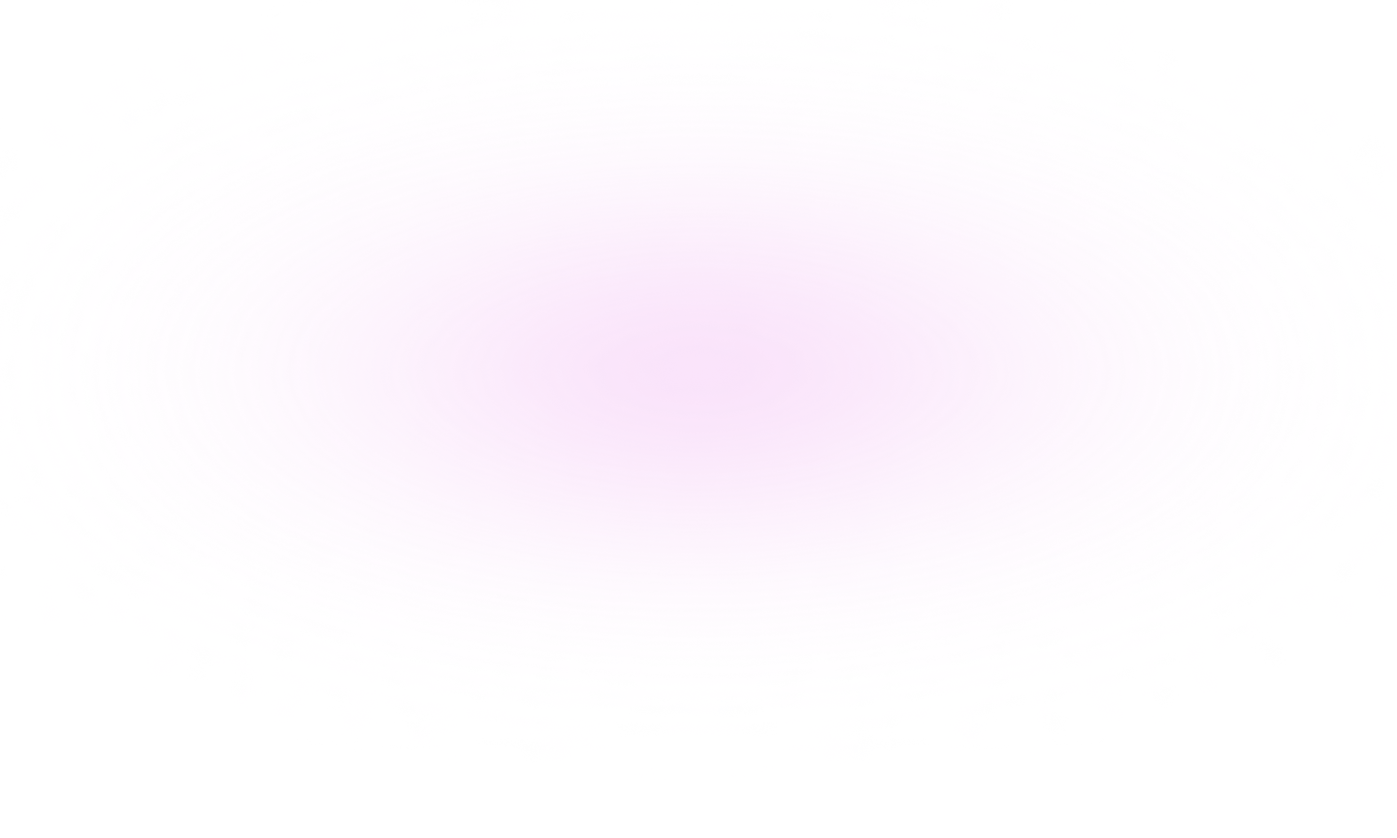
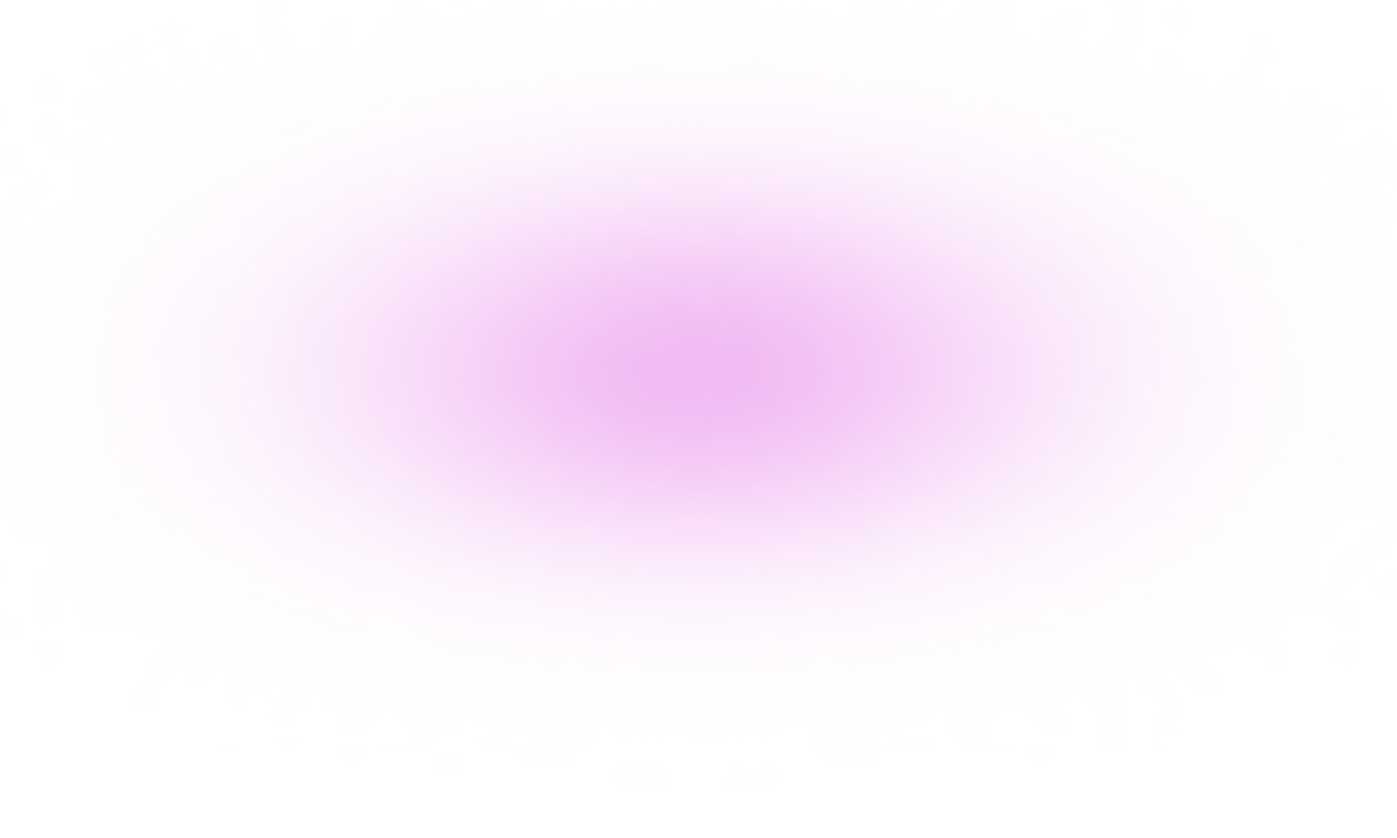
_features

Changed region(s): [[0.3125, 0.2812, 0.6875, 0.625]]

diff --git a/dist/index.html b/dist/index.html
@@ -1,1 +1,1 @@
-<!DOCTYPE html><html lang="en"><head><meta charset="UTF-8"><meta http-equiv="X-UA-Compatible" content="IE=edge"><meta name="viewport" content="width=device-width,initial-scale=1"><!-- Metatags --><title>Zeus UI</title><meta name="title" content="Zeus UI - Create and sell your NFTs today"><meta name="description" content="Velit, odio bibendum eu, viverra sit laoreet posuere. Ut scelerisque posuere massa amet. Ornare lacinia vitae at vestibulum morbi. Volutpat libero curabitur feugiat risus dui pulvinar. Elementum."><meta property="og:type" content="website"><meta property="og:url" content="https://metatags.io/"><meta property="og:title" content="Zeus UI - Create and sell your NFTs today"><meta property="og:description" content="Velit, odio bibendum eu, viverra sit laoreet posuere. Ut scelerisque posuere massa amet. Ornare lacinia vitae at vestibulum morbi. Volutpat libero curabitur feugiat risus dui pulvinar. Elementum."><meta property="og:image" content="https://metatags.io/assets/meta-tags-16a33a6a8531e519cc0936fbba0ad904e52d35f34a46c97a2c9f6f7dd7d336f2.png"><meta property="twitter:card" content="summary_large_image"><meta property="twitter:url" content="https://metatags.io/"><meta property="twitter:title" content="Zeus UI - Create and sell your NFTs today"><meta property="twitter:description" content="Velit, odio bibendum eu, viverra sit laoreet posuere. Ut scelerisque posuere massa amet. Ornare lacinia vitae at vestibulum morbi. Volutpat libero curabitur feugiat risus dui pulvinar. Elementum."><meta property="twitter:image" content="https://metatags.io/assets/meta-tags-16a33a6a8531e519cc0936fbba0ad904e52d35f34a46c97a2c9f6f7dd7d336f2.png"><!-- Favicon --><link rel="apple-touch-icon" sizes="57x57" href="icons/favicon/apple-icon-57x57.png"><link rel="apple-touch-icon" sizes="60x60" href="icons/favicon/apple-icon-60x60.png"><link rel="apple-touch-icon" sizes="72x72" href="icons/favicon/apple-icon-72x72.png"><link rel="apple-touch-icon" sizes="76x76" href="icons/favicon/apple-icon-76x76.png"><link rel="apple-touch-icon" sizes="114x114" href="icons/favicon/apple-icon-114x114.png"><link rel="apple-touch-icon" sizes="120x120" href="icons/favicon/apple-icon-120x120.png"><link rel="apple-touch-icon" sizes="144x144" href="icons/favicon/apple-icon-144x144.png"><link rel="apple-touch-icon" sizes="152x152" href="icons/favicon/apple-icon-152x152.png"><link rel="apple-touch-icon" sizes="180x180" href="icons/favicon/apple-icon-180x180.png"><link rel="icon" type="image/png" sizes="192x192" href="icons/favicon/android-icon-192x192.png"><link rel="icon" type="image/png" sizes="32x32" href="icons/favicon/favicon-32x32.png"><link rel="icon" type="image/png" sizes="96x96" href="icons/favicon/favicon-96x96.png"><link rel="icon" type="image/png" sizes="16x16" href="icons/favicon/favicon-16x16.png"><meta name="msapplication-TileColor" content="#ffffff"><meta name="msapplication-TileImage" content="icons/favicon/ms-icon-144x144.png"><meta name="theme-color" content="#ffffff"><link rel="stylesheet" href="css/style.min.css"></head><body><header class="header"><div class="container"><div class="menu"><nav><ul class="menu__left"><li class="menu__left-item"><a href="#">Home</a></li><li class="menu__left-item"><a href="#">University</a></li><li class="menu__left-item"><a href="#">Courses</a></li></ul><div class="menu__logo"><a href="#"><img src="icons/Logo.png" alt="Logo"></a></div><ul class="menu__right"><li class="menu__right-item"><a href="#">Use cases</a></li><li class="menu__right-item"><a href="#">Plans</a></li><li class="menu__right-item"><a href="#">Resources</a></li></ul></nav></div></div></header><div class="promo"><div class="container"><div class="promo__text"><div class="promo__text-title">Create & sell<br>your NFTs today</div><div class="promo__text-subtitle subtitle">Velit, odio bibendum eu, viverra sit laoreet posuere. Ut scelerisque posuere massa amet. Ornare lacinia vitae at vestibulum morbi. Volutpat libero curabitur feugiat risus dui pulvinar. Elementum.</div><div class="promo__text-button"><button class="button">Let’s sell</button></div></div></div></div><div class="logo"><div class="container"><div class="logo__wrapper"><div class="logo_wrapper-item"><a href="#"><img src="icons/integrations/integration_1.svg" alt="integration_1"></a></div><div class="logo_wrapper-item"><a href="#"><img src="icons/integrations/integration_2.svg" alt="integration_2"></a></div><div class="logo_wrapper-item"><a href="#"><img src="icons/integrations/integration_3.svg" alt="integration_3"></a></div><div class="logo_wrapper-item"><a href="#"><img src="icons/integrations/integration_4.svg" alt="integration_4"></a></div><div class="logo_wrapper-item"><a href="#"><img src="icons/integrations/integration_5.svg" alt="integration_5"></a></div><div class="logo_wrapper-item"><a href="#"><img src="icons/integrations/integration_6.svg" alt="integration_6"></a></div></div></div></div></body></html>
+<!DOCTYPE html><html lang="en"><head><meta charset="UTF-8"><meta http-equiv="X-UA-Compatible" content="IE=edge"><meta name="viewport" content="width=device-width,initial-scale=1"><!-- Metatags --><title>Zeus UI</title><meta name="title" content="Zeus UI - Create and sell your NFTs today"><meta name="description" content="Velit, odio bibendum eu, viverra sit laoreet posuere. Ut scelerisque posuere massa amet. Ornare lacinia vitae at vestibulum morbi. Volutpat libero curabitur feugiat risus dui pulvinar. Elementum."><meta property="og:type" content="website"><meta property="og:url" content="https://metatags.io/"><meta property="og:title" content="Zeus UI - Create and sell your NFTs today"><meta property="og:description" content="Velit, odio bibendum eu, viverra sit laoreet posuere. Ut scelerisque posuere massa amet. Ornare lacinia vitae at vestibulum morbi. Volutpat libero curabitur feugiat risus dui pulvinar. Elementum."><meta property="og:image" content="https://metatags.io/assets/meta-tags-16a33a6a8531e519cc0936fbba0ad904e52d35f34a46c97a2c9f6f7dd7d336f2.png"><meta property="twitter:card" content="summary_large_image"><meta property="twitter:url" content="https://metatags.io/"><meta property="twitter:title" content="Zeus UI - Create and sell your NFTs today"><meta property="twitter:description" content="Velit, odio bibendum eu, viverra sit laoreet posuere. Ut scelerisque posuere massa amet. Ornare lacinia vitae at vestibulum morbi. Volutpat libero curabitur feugiat risus dui pulvinar. Elementum."><meta property="twitter:image" content="https://metatags.io/assets/meta-tags-16a33a6a8531e519cc0936fbba0ad904e52d35f34a46c97a2c9f6f7dd7d336f2.png"><!-- Favicon --><link rel="apple-touch-icon" sizes="57x57" href="icons/favicon/apple-icon-57x57.png"><link rel="apple-touch-icon" sizes="60x60" href="icons/favicon/apple-icon-60x60.png"><link rel="apple-touch-icon" sizes="72x72" href="icons/favicon/apple-icon-72x72.png"><link rel="apple-touch-icon" sizes="76x76" href="icons/favicon/apple-icon-76x76.png"><link rel="apple-touch-icon" sizes="114x114" href="icons/favicon/apple-icon-114x114.png"><link rel="apple-touch-icon" sizes="120x120" href="icons/favicon/apple-icon-120x120.png"><link rel="apple-touch-icon" sizes="144x144" href="icons/favicon/apple-icon-144x144.png"><link rel="apple-touch-icon" sizes="152x152" href="icons/favicon/apple-icon-152x152.png"><link rel="apple-touch-icon" sizes="180x180" href="icons/favicon/apple-icon-180x180.png"><link rel="icon" type="image/png" sizes="192x192" href="icons/favicon/android-icon-192x192.png"><link rel="icon" type="image/png" sizes="32x32" href="icons/favicon/favicon-32x32.png"><link rel="icon" type="image/png" sizes="96x96" href="icons/favicon/favicon-96x96.png"><link rel="icon" type="image/png" sizes="16x16" href="icons/favicon/favicon-16x16.png"><meta name="msapplication-TileColor" content="#ffffff"><meta name="msapplication-TileImage" content="icons/favicon/ms-icon-144x144.png"><meta name="theme-color" content="#ffffff"><link rel="stylesheet" href="css/style.min.css"></head><body><header class="header"><div class="container"><div class="menu"><nav><ul class="menu__left"><li class="menu__left-item"><a href="#">Home</a></li><li class="menu__left-item"><a href="#">University</a></li><li class="menu__left-item"><a href="#">Courses</a></li></ul><div class="menu__logo"><a href="#"><img src="icons/Logo.png" alt="Logo"></a></div><ul class="menu__right"><li class="menu__right-item"><a href="#">Use cases</a></li><li class="menu__right-item"><a href="#">Plans</a></li><li class="menu__right-item"><a href="#">Resources</a></li></ul></nav></div></div></header><div class="promo"><div class="promo__bg"></div><div class="container"><div class="promo__text"><div class="promo__text-title">Create & sell<br>your NFTs today</div><div class="promo__text-subtitle subtitle">Velit, odio bibendum eu, viverra sit laoreet posuere. Ut scelerisque posuere massa amet. Ornare lacinia vitae at vestibulum morbi. Volutpat libero curabitur feugiat risus dui pulvinar. Elementum.</div><div class="promo__text-button"><button class="button">Let’s sell</button></div></div></div></div><div class="logo"><div class="container"><div class="logo__wrapper"><div class="logo_wrapper-item"><a href="#"><img src="icons/integrations/integration_1.svg" alt="integration_1"></a></div><div class="logo_wrapper-item"><a href="#"><img src="icons/integrations/integration_2.svg" alt="integration_2"></a></div><div class="logo_wrapper-item"><a href="#"><img src="icons/integrations/integration_3.svg" alt="integration_3"></a></div><div class="logo_wrapper-item"><a href="#"><img src="icons/integrations/integration_4.svg" alt="integration_4"></a></div><div class="logo_wrapper-item"><a href="#"><img src="icons/integrations/integration_5.svg" alt="integration_5"></a></div><div class="logo_wrapper-item"><a href="#"><img src="icons/integrations/integration_6.svg" alt="integration_6"></a></div></div></div></div><div class="features"><div class="container"><div class="features__text"><div class="features__text-title title">Hottest Collections</div><div class="features__text-subtitle subtitle">Risus commodo id odio turpis pharetra elementum. Pulvinar porta porta feugiat scelerisque in elit. Morbi rhoncus, tellus, eros consequat magna semper orci a tincidunt.</div></div><div class="features__wrapper"><div class="features__item"><img src="img/features/features_1.png" alt="Features_1" class="features__item-img"><div class="features__item-title title-fz32">Moonbirds</div><div class="features__item-subtitle subtitle-fz14">Faucibus odio elementum nulla venenatis, libero. Ullamcorper duis fringilla pulvinar nibh diam sit.</div></div><div class="features__item"><img src="img/features/features_2.png" alt="Features_2" class="features__item-img"><div class="features__item-title title-fz32">Clone X - X Takashi Murakami</div><div class="features__item-subtitle subtitle-fz14">Magna in condimentum praesent pretium vitae mattis facilisis nunc. Lectus in ac ac.</div></div><div class="features__item"><img src="img/features/features_3.png" alt="Mutant Ape Yacht Club" class="features__item-img"><div class="features__item-title title-fz32">Mutant Ape Yacht Club</div><div class="features__item-subtitle subtitle-fz14">Sit aenean porttitor sit lectus. Adipiscing egestas etiam eget cursus nulla risus euismod. Netus.</div></div><div class="features__item"><img src="img/features/features_4.png" alt="'MOAR' by Joan Cornella" class="features__item-img"><div class="features__item-title title-fz32">"MOAR" by Joan Cornella</div><div class="features__item-subtitle subtitle-fz14">Faucibus odio elementum nulla venenatis, libero. Ullamcorper duis fringilla pulvinar nibh diam sit.</div></div><div class="features__item"><img src="img/features/features_5.png" alt="Doodles" class="features__item-img"><div class="features__item-title title-fz32">Doodles</div><div class="features__item-subtitle subtitle-fz14">Magna in condimentum praesent pretium vitae mattis facilisis nunc. Lectus in ac ac.</div></div><div class="features__item"><img src="img/features/features_6.png" alt="KIWAMI Genesis" class="features__item-img"><div class="features__item-title title-fz32">KIWAMI Genesis</div><div class="features__item-subtitle subtitle-fz14">Sit aenean porttitor sit lectus. Adipiscing egestas etiam eget cursus nulla risus euismod. Netus.</div></div><div class="features__item"><img src="img/features/features_7.png" alt="Arcade Land" class="features__item-img"><div class="features__item-title title-fz32">Arcade Land</div><div class="features__item-subtitle subtitle-fz14">Faucibus odio elementum nulla venenatis, libero. Ullamcorper duis fringilla pulvinar nibh diam sit.</div></div><div class="features__item"><img src="img/features/features_8.png" alt="Goons of Balatroon" class="features__item-img"><div class="features__item-title title-fz32">Goons of Balatroon</div><div class="features__item-subtitle subtitle-fz14">Magna in condimentum praesent pretium vitae mattis facilisis nunc. Lectus in ac ac.</div></div><div class="features__item"><img src="img/features/features_9.png" alt="Meta Toy DragonZ" class="features__item-img"><div class="features__item-title title-fz32">Meta Toy DragonZ</div><div class="features__item-subtitle subtitle-fz14">Sit aenean porttitor sit lectus. Adipiscing egestas etiam eget cursus nulla risus euismod. Netus.</div></div></div></div></div></body></html>

diff --git a/dist/css/style.min.css b/dist/css/style.min.css
@@ -4,4 +4,4 @@
  * Copyright 2011-2019 Twitter, Inc.
  * Licensed under MIT (https://github.com/twbs/bootstrap/blob/master/LICENSE)
  * Forked from Normalize.css, licensed MIT (https://github.com/necolas/normalize.css/blob/master/LICENSE.md)
- */@import url(https://fonts.googleapis.com/css2?family=Space+Grotesk:wght@300;400;500&family=Syne:wght@600;700&display=swap);*,::after,::before{box-sizing:border-box}html{font-family:sans-serif;line-height:1.15;-webkit-text-size-adjust:100%;-webkit-tap-highlight-color:rgba(0,0,0,0)}article,aside,figcaption,figure,footer,header,hgroup,main,nav,section{display:block}body{margin:0;font-family:-apple-system,BlinkMacSystemFont,"Segoe UI",Roboto,"Helvetica Neue",Arial,"Noto Sans",sans-serif,"Apple Color Emoji","Segoe UI Emoji","Segoe UI Symbol","Noto Color Emoji";font-size:1rem;font-weight:400;line-height:1.5;color:#212529;text-align:left;background-color:#fff}[tabindex="-1"]:focus{outline:0!important}hr{box-sizing:content-box;height:0;overflow:visible}h1,h2,h3,h4,h5,h6{margin-top:0;margin-bottom:.5rem}p{margin-top:0;margin-bottom:1rem}abbr[data-original-title],abbr[title]{text-decoration:underline;-webkit-text-decoration:underline dotted;text-decoration:underline dotted;cursor:help;border-bottom:0;-webkit-text-decoration-skip-ink:none;text-decoration-skip-ink:none}address{margin-bottom:1rem;font-style:normal;line-height:inherit}dl,ol,ul{margin-top:0;margin-bottom:1rem}ol ol,ol ul,ul ol,ul ul{margin-bottom:0}dt{font-weight:700}dd{margin-bottom:.5rem;margin-left:0}blockquote{margin:0 0 1rem}b,strong{font-weight:bolder}small{font-size:80%}sub,sup{position:relative;font-size:75%;line-height:0;vertical-align:baseline}sub{bottom:-.25em}sup{top:-.5em}a{color:#007bff;text-decoration:none;background-color:rgba(0,0,0,0)}a:hover{color:#0056b3;text-decoration:underline}a:not([href]):not([tabindex]){color:inherit;text-decoration:none}a:not([href]):not([tabindex]):focus,a:not([href]):not([tabindex]):hover{color:inherit;text-decoration:none}a:not([href]):not([tabindex]):focus{outline:0}code,kbd,pre,samp{font-family:SFMono-Regular,Menlo,Monaco,Consolas,"Liberation Mono","Courier New",monospace;font-size:1em}pre{margin-top:0;margin-bottom:1rem;overflow:auto}figure{margin:0 0 1rem}img{vertical-align:middle;border-style:none}svg{overflow:hidden;vertical-align:middle}table{border-collapse:collapse}caption{padding-top:.75rem;padding-bottom:.75rem;color:#6c757d;text-align:left;caption-side:bottom}th{text-align:inherit}label{display:inline-block;margin-bottom:.5rem}button{border-radius:0}button:focus{outline:1px dotted;outline:5px auto -webkit-focus-ring-color}button,input,optgroup,select,textarea{margin:0;font-family:inherit;font-size:inherit;line-height:inherit}button,input{overflow:visible}button,select{text-transform:none}select{word-wrap:normal}[type=button],[type=reset],[type=submit],button{-webkit-appearance:button}[type=button]:not(:disabled),[type=reset]:not(:disabled),[type=submit]:not(:disabled),button:not(:disabled){cursor:pointer}[type=button]::-moz-focus-inner,[type=reset]::-moz-focus-inner,[type=submit]::-moz-focus-inner,button::-moz-focus-inner{padding:0;border-style:none}input[type=checkbox],input[type=radio]{box-sizing:border-box;padding:0}input[type=date],input[type=datetime-local],input[type=month],input[type=time]{-webkit-appearance:listbox}textarea{overflow:auto;resize:vertical}fieldset{min-width:0;padding:0;margin:0;border:0}legend{display:block;width:100%;max-width:100%;padding:0;margin-bottom:.5rem;font-size:1.5rem;line-height:inherit;color:inherit;white-space:normal}progress{vertical-align:baseline}[type=number]::-webkit-inner-spin-button,[type=number]::-webkit-outer-spin-button{height:auto}[type=search]{outline-offset:-2px;-webkit-appearance:none}[type=search]::-webkit-search-decoration{-webkit-appearance:none}::-webkit-file-upload-button{font:inherit;-webkit-appearance:button}output{display:inline-block}summary{display:list-item;cursor:pointer}template{display:none}[hidden]{display:none!important}.header{padding-top:15px}.menu__left,.menu__right{display:flex;align-items:center}.menu__left-item,.menu__right-item{justify-content:space-between;list-style-type:none}.menu__left-item:last-child,.menu__right-item:last-child{margin-right:0}.menu__left-item a,.menu__right-item a{font-family:"Space Grotesk";font-weight:500;font-size:16px;line-height:20px;margin-right:20px;text-decoration:none;color:#000;opacity:.5;transition:all .2s linear}.menu__left-item a:hover,.menu__right-item a:hover{opacity:1}.menu nav{display:flex;justify-content:space-between}.title{font-family:Syne;font-weight:700;color:#000;line-height:64px;font-size:48px}.subtitle{font-family:"Space Grotesk";font-weight:400;color:#532c59;text-align:center;font-size:16px;line-height:24px}.button{margin-top:32px;width:115px;height:55px;background:#532c59;border-radius:15px;border:none;outline:0;font-family:Syne;font-weight:700;font-size:16px;line-height:20px;color:#fff}.promo{position:relative;padding-top:115px;height:575px}.promo__text{margin:0 auto;width:856px}.promo__text-title{font-family:Syne;font-size:80px;line-height:96px;font-weight:700;text-align:center}.promo__text-subtitle{margin-top:32px}.promo__text-button{display:flex;justify-content:center;align-items:center}.logo{height:120px;padding-top:40px}.logo__wrapper{display:flex;justify-content:space-between}*{font-family:"Space Grotesk",sans-serif;font-family:Syne,sans-serif;margin:0;padding:0;scroll-behavior:smooth}.container{width:1140px;margin:0 auto}dl,ol,ul{margin-top:0;margin-bottom:0}a:hover{text-decoration:none}
+ */@import url(https://fonts.googleapis.com/css2?family=Space+Grotesk:wght@300;400;500&family=Syne:wght@600;700&display=swap);*,::after,::before{box-sizing:border-box}html{font-family:sans-serif;line-height:1.15;-webkit-text-size-adjust:100%;-webkit-tap-highlight-color:rgba(0,0,0,0)}article,aside,figcaption,figure,footer,header,hgroup,main,nav,section{display:block}body{margin:0;font-family:-apple-system,BlinkMacSystemFont,"Segoe UI",Roboto,"Helvetica Neue",Arial,"Noto Sans",sans-serif,"Apple Color Emoji","Segoe UI Emoji","Segoe UI Symbol","Noto Color Emoji";font-size:1rem;font-weight:400;line-height:1.5;color:#212529;text-align:left;background-color:#fff}[tabindex="-1"]:focus{outline:0!important}hr{box-sizing:content-box;height:0;overflow:visible}h1,h2,h3,h4,h5,h6{margin-top:0;margin-bottom:.5rem}p{margin-top:0;margin-bottom:1rem}abbr[data-original-title],abbr[title]{text-decoration:underline;-webkit-text-decoration:underline dotted;text-decoration:underline dotted;cursor:help;border-bottom:0;-webkit-text-decoration-skip-ink:none;text-decoration-skip-ink:none}address{margin-bottom:1rem;font-style:normal;line-height:inherit}dl,ol,ul{margin-top:0;margin-bottom:1rem}ol ol,ol ul,ul ol,ul ul{margin-bottom:0}dt{font-weight:700}dd{margin-bottom:.5rem;margin-left:0}blockquote{margin:0 0 1rem}b,strong{font-weight:bolder}small{font-size:80%}sub,sup{position:relative;font-size:75%;line-height:0;vertical-align:baseline}sub{bottom:-.25em}sup{top:-.5em}a{color:#007bff;text-decoration:none;background-color:rgba(0,0,0,0)}a:hover{color:#0056b3;text-decoration:underline}a:not([href]):not([tabindex]){color:inherit;text-decoration:none}a:not([href]):not([tabindex]):focus,a:not([href]):not([tabindex]):hover{color:inherit;text-decoration:none}a:not([href]):not([tabindex]):focus{outline:0}code,kbd,pre,samp{font-family:SFMono-Regular,Menlo,Monaco,Consolas,"Liberation Mono","Courier New",monospace;font-size:1em}pre{margin-top:0;margin-bottom:1rem;overflow:auto}figure{margin:0 0 1rem}img{vertical-align:middle;border-style:none}svg{overflow:hidden;vertical-align:middle}table{border-collapse:collapse}caption{padding-top:.75rem;padding-bottom:.75rem;color:#6c757d;text-align:left;caption-side:bottom}th{text-align:inherit}label{display:inline-block;margin-bottom:.5rem}button{border-radius:0}button:focus{outline:1px dotted;outline:5px auto -webkit-focus-ring-color}button,input,optgroup,select,textarea{margin:0;font-family:inherit;font-size:inherit;line-height:inherit}button,input{overflow:visible}button,select{text-transform:none}select{word-wrap:normal}[type=button],[type=reset],[type=submit],button{-webkit-appearance:button}[type=button]:not(:disabled),[type=reset]:not(:disabled),[type=submit]:not(:disabled),button:not(:disabled){cursor:pointer}[type=button]::-moz-focus-inner,[type=reset]::-moz-focus-inner,[type=submit]::-moz-focus-inner,button::-moz-focus-inner{padding:0;border-style:none}input[type=checkbox],input[type=radio]{box-sizing:border-box;padding:0}input[type=date],input[type=datetime-local],input[type=month],input[type=time]{-webkit-appearance:listbox}textarea{overflow:auto;resize:vertical}fieldset{min-width:0;padding:0;margin:0;border:0}legend{display:block;width:100%;max-width:100%;padding:0;margin-bottom:.5rem;font-size:1.5rem;line-height:inherit;color:inherit;white-space:normal}progress{vertical-align:baseline}[type=number]::-webkit-inner-spin-button,[type=number]::-webkit-outer-spin-button{height:auto}[type=search]{outline-offset:-2px;-webkit-appearance:none}[type=search]::-webkit-search-decoration{-webkit-appearance:none}::-webkit-file-upload-button{font:inherit;-webkit-appearance:button}output{display:inline-block}summary{display:list-item;cursor:pointer}template{display:none}[hidden]{display:none!important}.header{display:flex;align-items:center;height:76px;background:#fff;border-bottom:1px solid #f8e0fb}.menu__left,.menu__right{display:flex;align-items:center}.menu__left-item,.menu__right-item{justify-content:space-between;list-style-type:none}.menu__left-item:last-child,.menu__right-item:last-child{margin-right:0}.menu__left-item a,.menu__right-item a{font-family:"Space Grotesk";font-weight:500;font-size:16px;line-height:20px;margin-right:20px;text-decoration:none;color:#000;opacity:.5;transition:all .2s linear}.menu__left-item a:hover,.menu__right-item a:hover{opacity:1}.menu nav{display:flex;justify-content:space-between}.title{font-family:Syne;font-weight:700;color:#000;text-align:center;line-height:64px;font-size:48px}.title-fz32{text-align:center;color:#000;font-size:32px;line-height:42px;font-weight:600}.subtitle{font-family:"Space Grotesk";font-weight:400;color:#532c59;text-align:center;font-size:16px;line-height:24px}.subtitle-fz14{text-align:center;color:#532c59;font-size:14px;line-height:20px;font-weight:400}.button{margin-top:32px;width:115px;height:55px;background:#532c59;border-radius:15px;border:none;outline:0;font-family:Syne;font-weight:700;font-size:16px;line-height:20px;color:#fff}.promo{position:relative;height:575px}.promo__text{z-index:2;padding-top:115px;margin:0 auto;width:856px}.promo__text-title{font-family:Syne;font-size:80px;line-height:96px;font-weight:700;text-align:center;text-shadow:-5px 5px 0 #fff}.promo__text-subtitle{margin-top:32px}.promo__text-button{display:flex;justify-content:center;align-items:center}.promo__bg{z-index:-1;position:absolute;width:100%;height:100%;background:radial-gradient(50% 50% at 50% 50%,#e36ce6 0,rgba(255,255,255,0) 100%);-webkit-filter:blur(116px);filter:blur(116px);opacity:.4}.logo{z-index:2;height:120px;padding-top:40px}.logo__wrapper{display:flex;justify-content:space-between}.features{padding-top:80px}.features__wrapper{margin-top:64px;display:grid;grid-template-columns:412px 412px 412px;-moz-column-gap:30px;column-gap:30px;row-gap:64px}.features__item-img{height:412px;width:396px}.features__item-title{margin-top:16px}.features__item-subtitle{margin-top:12px}*{font-family:"Space Grotesk",sans-serif;font-family:Syne,sans-serif;margin:0;padding:0;scroll-behavior:smooth}.container{width:1300px;margin:0 auto}dl,ol,ul{margin-top:0;margin-bottom:0}a:hover{text-decoration:none}

diff --git a/src/index.html b/src/index.html
@@ -61,6 +61,7 @@
     </header>
 
     <div class="promo">
+        <div class="promo__bg"></div>
         <div class="container">
             <div class="promo__text">
                 <div class="promo__text-title">Create & sell<br> your NFTs today</div>
@@ -69,6 +70,7 @@
                     <button class="button">Let’s sell</button>
                 </div>
             </div>
+
         </div>
     </div>
 
@@ -92,6 +94,62 @@
                 </div>
                 <div class="logo_wrapper-item">
                     <a href="#"><img src="icons/integrations/integration_6.svg" alt="integration_6"></a>
+                </div>
+            </div>
+        </div>
+    </div>
+
+    <div class="features">
+        <div class="container">
+            <div class="features__text">
+                <div class="features__text-title title">Hottest Collections</div>
+                <div class="features__text-subtitle subtitle">Risus commodo id odio turpis pharetra elementum. Pulvinar porta porta feugiat scelerisque in elit. Morbi rhoncus, tellus, eros consequat magna semper orci a tincidunt. </div>
+            </div>
+            <div class="features__wrapper">
+                <div class="features__item">
+                    <img src="img/features/features_1.png" alt="Features_1" class="features__item-img">
+                    <div class="features__item-title title-fz32">Moonbirds</div>
+                    <div class="features__item-subtitle subtitle-fz14">Faucibus odio elementum nulla venenatis, libero. Ullamcorper duis fringilla pulvinar nibh diam sit.</div>
+                </div>
+                <div class="features__item">
+                    <img src="img/features/features_2.png" alt="Features_2" class="features__item-img">
+                    <div class="features__item-title title-fz32">Clone X - X Takashi Murakami</div>
+                    <div class="features__item-subtitle subtitle-fz14">Magna in condimentum praesent pretium vitae mattis facilisis nunc. Lectus in ac ac.</div>
+                </div>
+                <div class="features__item">
+                    <img src="img/features/features_3.png" alt="Mutant Ape Yacht Club" class="features__item-img">
+                    <div class="features__item-title title-fz32">Mutant Ape Yacht Club</div>
+                    <div class="features__item-subtitle subtitle-fz14">Sit aenean porttitor sit lectus. Adipiscing egestas etiam eget cursus nulla risus euismod. Netus.</div>
+                </div>
+                <div class="features__item">
+                    <img src="img/features/features_4.png" alt="'MOAR' by Joan Cornella" class="features__item-img">
+                    <div class="features__item-title title-fz32">"MOAR" by Joan Cornella</div>
+                    <div class="features__item-subtitle subtitle-fz14">Faucibus odio elementum nulla venenatis, libero. Ullamcorper duis fringilla pulvinar nibh diam sit.</div>
+                </div>
+                <div class="features__item">
+                    <img src="img/features/features_5.png" alt="Doodles" class="features__item-img">
+                    <div class="features__item-title title-fz32">Doodles</div>
+                    <div class="features__item-subtitle subtitle-fz14">Magna in condimentum praesent pretium vitae mattis facilisis nunc. Lectus in ac ac.</div>
+                </div>
+                <div class="features__item">
+                    <img src="img/features/features_6.png" alt="KIWAMI Genesis" class="features__item-img">
+                    <div class="features__item-title title-fz32">KIWAMI Genesis</div>
+                    <div class="features__item-subtitle subtitle-fz14">Sit aenean porttitor sit lectus. Adipiscing egestas etiam eget cursus nulla risus euismod. Netus.</div>
+                </div>
+                <div class="features__item">
+                    <img src="img/features/features_7.png" alt="Arcade Land" class="features__item-img">
+                    <div class="features__item-title title-fz32">Arcade Land</div>
+                    <div class="features__item-subtitle subtitle-fz14">Faucibus odio elementum nulla venenatis, libero. Ullamcorper duis fringilla pulvinar nibh diam sit.</div>
+                </div>
+                <div class="features__item">
+                    <img src="img/features/features_8.png" alt="Goons of Balatroon" class="features__item-img">
+                    <div class="features__item-title title-fz32">Goons of Balatroon</div>
+                    <div class="features__item-subtitle subtitle-fz14">Magna in condimentum praesent pretium vitae mattis facilisis nunc. Lectus in ac ac.</div>
+                </div>
+                <div class="features__item">
+                    <img src="img/features/features_9.png" alt="Meta Toy DragonZ" class="features__item-img">
+                    <div class="features__item-title title-fz32">Meta Toy DragonZ</div>
+                    <div class="features__item-subtitle subtitle-fz14">Sit aenean porttitor sit lectus. Adipiscing egestas etiam eget cursus nulla risus euismod. Netus.</div>
                 </div>
             </div>
         </div>

diff --git a/src/sass/blocks/_promo.scss b/src/sass/blocks/_promo.scss
@@ -1,8 +1,9 @@
 .promo {
     position: relative;
-    padding-top: 115px;
     height: 575px;
     &__text {
+        z-index: 2;
+        padding-top: 115px;
         margin: 0 auto;
         width: 856px;
         &-title {
@@ -11,6 +12,7 @@
             line-height: 96px;
             font-weight: 700;
             text-align: center;
+            text-shadow: -5px 5px 0px #FFFFFF;
         }
         &-subtitle {
             margin-top: 32px;
@@ -21,9 +23,19 @@
             align-items: center;
         }
     }
+    &__bg {
+        z-index: -1;
+        position: absolute;
+        width: 100%;
+        height: 100%;
+        background: radial-gradient(50% 50% at 50% 50%, #E36CE6 0%, rgba(255, 255, 255, 0) 100%);
+        filter: blur(116px); 
+        opacity: 0.4;
+    }
 }
 
 .logo {
+    z-index: 2;
     height: 120px;
     padding-top: 40px;
     &__wrapper {

diff --git a/src/sass/blocks/_titles.scss b/src/sass/blocks/_titles.scss
@@ -2,8 +2,16 @@
     font-family: 'Syne';
     font-weight: 700;
     color: $black;
+    text-align: center;
     line-height: 64px;
     font-size: 48px;
+    &-fz32 {
+        text-align: center;
+        color: #000;
+        font-size: 32px;
+        line-height: 42px;
+        font-weight: 600;
+    }
 }
 
 .subtitle {
@@ -13,4 +21,11 @@
     text-align: center;
     font-size: 16px;
     line-height: 24px;
+    &-fz14 {
+        text-align: center;
+        color: $main-color;
+        font-size: 14px;
+        line-height: 20px;
+        font-weight: 400;
+    }
 }

diff --git a/src/sass/blocks/_features.scss b/src/sass/blocks/_features.scss
@@ -1,0 +1,22 @@
+.features {
+    padding-top: 80px;
+    &__wrapper {
+        margin-top: 64px;
+        display: grid;
+        grid-template-columns: 412px 412px 412px;
+        column-gap: 30px;
+        row-gap: 64px;
+    }
+    &__item {
+        &-img {
+            height: 412px;
+            width: 396px;
+        }
+        &-title {
+            margin-top: 16px;
+        }
+        &-subtitle {
+            margin-top: 12px;
+        }
+    }
+}

diff --git a/src/sass/style.scss b/src/sass/style.scss
@@ -7,6 +7,7 @@
 @import 'blocks/titles';
 @import 'blocks/buttons';
 @import 'blocks/promo';
+@import 'blocks/features';
 
 * {
     font-family: 'Space Grotesk', sans-serif;
@@ -17,7 +18,7 @@
 }
 
 .container {
-    width: 1140px;
+    width: 1300px;
     margin: 0 auto;
 }
 

diff --git a/src/sass/blocks/_header.scss b/src/sass/blocks/_header.scss
@@ -1,5 +1,9 @@
 .header {
-    padding-top: 15px;
+    display: flex;
+    align-items: center;
+    height: 76px;
+    background: #FFFFFF;
+    border-bottom: 1px solid #F8E0FB;
 }
 
 .menu {
